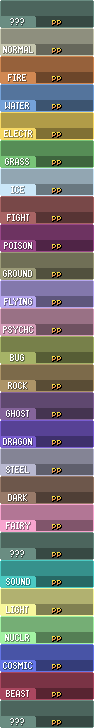
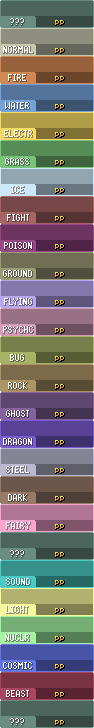
Combat PE : Poké Balls du joueur cachées, Pokémon posé sur la bande, PV en petite police, PP plus bas ; aides avec les vraies touches du clavier
Claude-Session: https://claude.ai/code/session_018TY279VEdd7FGUpz247Awr

diff --git a/scripts/interface_pe/scripts/00130 Combat/001 Configuration.rb b/scripts/interface_pe/scripts/00130 Combat/001 Configuration.rb
@@ -26,8 +26,8 @@ module BattleUI
     PLAYER_BOX = [182, 144]
     PLAYER_BOX_DOUBLE = [182, 112]
     PLAYER_OFFSET = [0, 31]
-    # Remonte le Pokémon du joueur pour qu'il ne passe pas sous la bande du bas (en pixels)
-    PLAYER_SPRITE_RAISE = 34
+    # Remonte le Pokémon du joueur (en pixels) : il est posé sur la bande du bas (176)
+    PLAYER_SPRITE_RAISE = 6
     # Cache les Poké Balls de l'équipe du joueur (nombre de Pokémon)
     HIDE_PLAYER_PARTY_BALLS = true
     # Garde la boîte d'infos du Pokémon du joueur affichée pendant les choix
@@ -47,7 +47,30 @@ module BattleUI
     # @param key [Symbol]
     # @return [String]
     def text(key)
-      return TEXTS[key][$options&.language == 'fr' ? 0 : 1]
+      return key_names(TEXTS[key][$options&.language == 'fr' ? 0 : 1])
+    end
+
+    # Remplace les touches du jeu (« X : », « Y : »…) par les touches du clavier réglées
+    # (par défaut Y = touche B du clavier, X = V, A = C, B = X)
+    # @param str [String]
+    # @return [String]
+    def key_names(str)
+      return str unless str.is_a?(String)
+
+      return str.gsub(/(?<![[:alpha:]])([ABXY])(?= ?:)/) { key_label(Regexp.last_match(1)) }
+    end
+
+    # @param key [String] A, B, X ou Y
+    # @return [String] nom de la touche du clavier
+    def key_label(key)
+      code = Input::Keys[key.to_sym]&.first
+      @key_labels ||= {}
+      return @key_labels[[key, code]] ||= begin
+        name = PFM::Text.get_key_name(key.downcase).to_s
+        name.empty? || name == 'KeyError' ? key : name
+      end
+    rescue StandardError
+      return key
     end
 
     # @return [Boolean] si l'interface s'applique (pas en 3 contre 3)

diff --git a/scripts/enhanced_battle_ui/scripts/00100 Configuration.rb b/scripts/enhanced_battle_ui/scripts/00100 Configuration.rb
@@ -248,7 +248,30 @@ module BattleUI
     # @param key [Symbol]
     # @return [String, Array]
     def text(key)
-      return TEXTS[key][lang]
+      return key_names(TEXTS[key][lang])
+    end
+
+    # Remplace les touches du jeu (« X : », « Y : »…) par les touches du clavier réglées
+    # (par défaut Y = touche B du clavier, X = V, A = C, B = X)
+    # @param str [String]
+    # @return [String]
+    def key_names(str)
+      return str unless str.is_a?(String)
+
+      return str.gsub(/(?<![[:alpha:]])([ABXY])(?= ?:)/) { key_label(Regexp.last_match(1)) }
+    end
+
+    # @param key [String] A, B, X ou Y
+    # @return [String] nom de la touche du clavier
+    def key_label(key)
+      code = Input::Keys[key.to_sym]&.first
+      @key_labels ||= {}
+      return @key_labels[[key, code]] ||= begin
+        name = PFM::Text.get_key_name(key.downcase).to_s
+        name.empty? || name == 'KeyError' ? key : name
+      end
+    rescue StandardError
+      return key
     end
 
     # @return [Boolean]

diff --git a/scripts/interface_pe/scripts/00130 Combat/002 Boites infos.rb b/scripts/interface_pe/scripts/00130 Combat/002 Boites infos.rb
@@ -73,8 +73,11 @@ module BattleUI
         add_sprite(115, 5, PJ.file('level'))
         add_text(123, -2, 0, 16, :level, 0, 1, color: PJ::WHITE, type: UI::SymText)
         create_pj_hp_bar(51, 17)
-        add_text(24, 19, 40, 16, :hp, 2, 1, color: PJ::WHITE, type: UI::SymText)
-        add_text(72, 19, 22, 16, :max_hp, 0, 1, color: PJ::WHITE, type: UI::SymText)
+        # PV en petite police (« 118/118 » tient entre la barre et l'expérience)
+        with_font(20) do
+          add_text(24, 20, 43, 13, :hp, 2, 1, color: PJ::WHITE, type: UI::SymText)
+          add_text(74, 20, 22, 13, :max_hp, 0, 1, color: PJ::WHITE, type: UI::SymText)
+        end
         @exp_bar = push_sprite UI::Bar.new(@viewport, x + 95, y + 24, RPG::Cache.interface(PJ.file('exp_bar')), 38, 2, 0, 0, 1)
         @exp_bar.data_source = :exp_rate
         add_sprite(28, 16, nil, type: PJ::StatusIcon)

diff --git a/scripts/interface_pe/scripts/00130 Combat/006 Choix attaque.rb b/scripts/interface_pe/scripts/00130 Combat/006 Choix attaque.rb
@@ -33,7 +33,7 @@ module BattleUI
           @name = add_text(4, -1, 64, 16, '', 0, 1, color: PJ::WHITE)
           @effectiveness = add_sprite(69, 3, PJ.file('effectiveness'), 1, 6, type: SpriteSheet)
           @category = add_sprite(36, 17, PJ.file('categories'), 1, 3, type: SpriteSheet)
-          with_font(20) { @pp = add_text(62, 13, 30, 13, '', 2, 1, color: PJ::WHITE) }
+          with_font(20) { @pp = add_text(62, 15, 30, 13, '', 2, 1, color: PJ::WHITE) }
         end
 
         # Premier adversaire en jeu (pour l'efficacité affichée)

diff --git a/scripts/interface_pe/scripts/00130 Combat/008 Scene de combat.rb b/scripts/interface_pe/scripts/00130 Combat/008 Scene de combat.rb
@@ -35,6 +35,17 @@ module BattleUI
       def visible=(value)
         super(value && !@pj_hidden)
       end
+
+      # Les Poké Balls se réaffichent d'elles-mêmes quand l'équipe change : on les recache
+      def data=(value)
+        super
+        self.visible = false if @pj_hidden
+      end
+
+      def update
+        super
+        @stack.each { |sprite| sprite.visible = false if sprite.visible } if @pj_hidden
+      end
     end
     prepend PJStyle if PJ::ENABLED
   end
